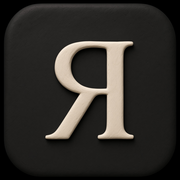
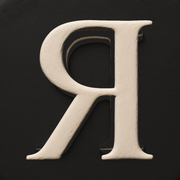
v0-48 full-bleed clay Ya launcher tile
Adaptive icon: leather background fills the mask, clay serif Ya is the foreground. Legacy densities are square, no baked iOS rounded-rect inset.

diff --git a/index.html b/index.html
@@ -19,7 +19,7 @@
   <meta property="og:image" content="./logo.jpeg" />
   <meta name="twitter:card" content="summary" />
   <meta name="twitter:image" content="./logo.jpeg" />
-  <link rel="stylesheet" href="./styles.css?v=47" />
+  <link rel="stylesheet" href="./styles.css?v=48" />
 </head>
 <body>
   <div id="sa-top" class="sa-top" aria-hidden="true"></div>
@@ -127,6 +127,6 @@
       </div>
     </div>
   </aside>
-  <script src="./app.js?v=47"></script>
+  <script src="./app.js?v=48"></script>
 </body>
 </html>

diff --git a/web/index.html b/web/index.html
@@ -19,7 +19,7 @@
   <meta property="og:image" content="./logo.jpeg" />
   <meta name="twitter:card" content="summary" />
   <meta name="twitter:image" content="./logo.jpeg" />
-  <link rel="stylesheet" href="./styles.css?v=47" />
+  <link rel="stylesheet" href="./styles.css?v=48" />
 </head>
 <body>
   <div id="sa-top" class="sa-top" aria-hidden="true"></div>
@@ -127,6 +127,6 @@
       </div>
     </div>
   </aside>
-  <script src="./app.js?v=47"></script>
+  <script src="./app.js?v=48"></script>
 </body>
 </html>

diff --git a/sw.js b/sw.js
@@ -1,4 +1,4 @@
-const CACHE = "projectr-v0-47";
+const CACHE = "projectr-v0-48";
 const ASSETS = [
   "./",
   "./index.html",

diff --git a/web/sw.js b/web/sw.js
@@ -1,4 +1,4 @@
-const CACHE = "projectr-v0-47";
+const CACHE = "projectr-v0-48";
 const ASSETS = [
   "./",
   "./index.html",
